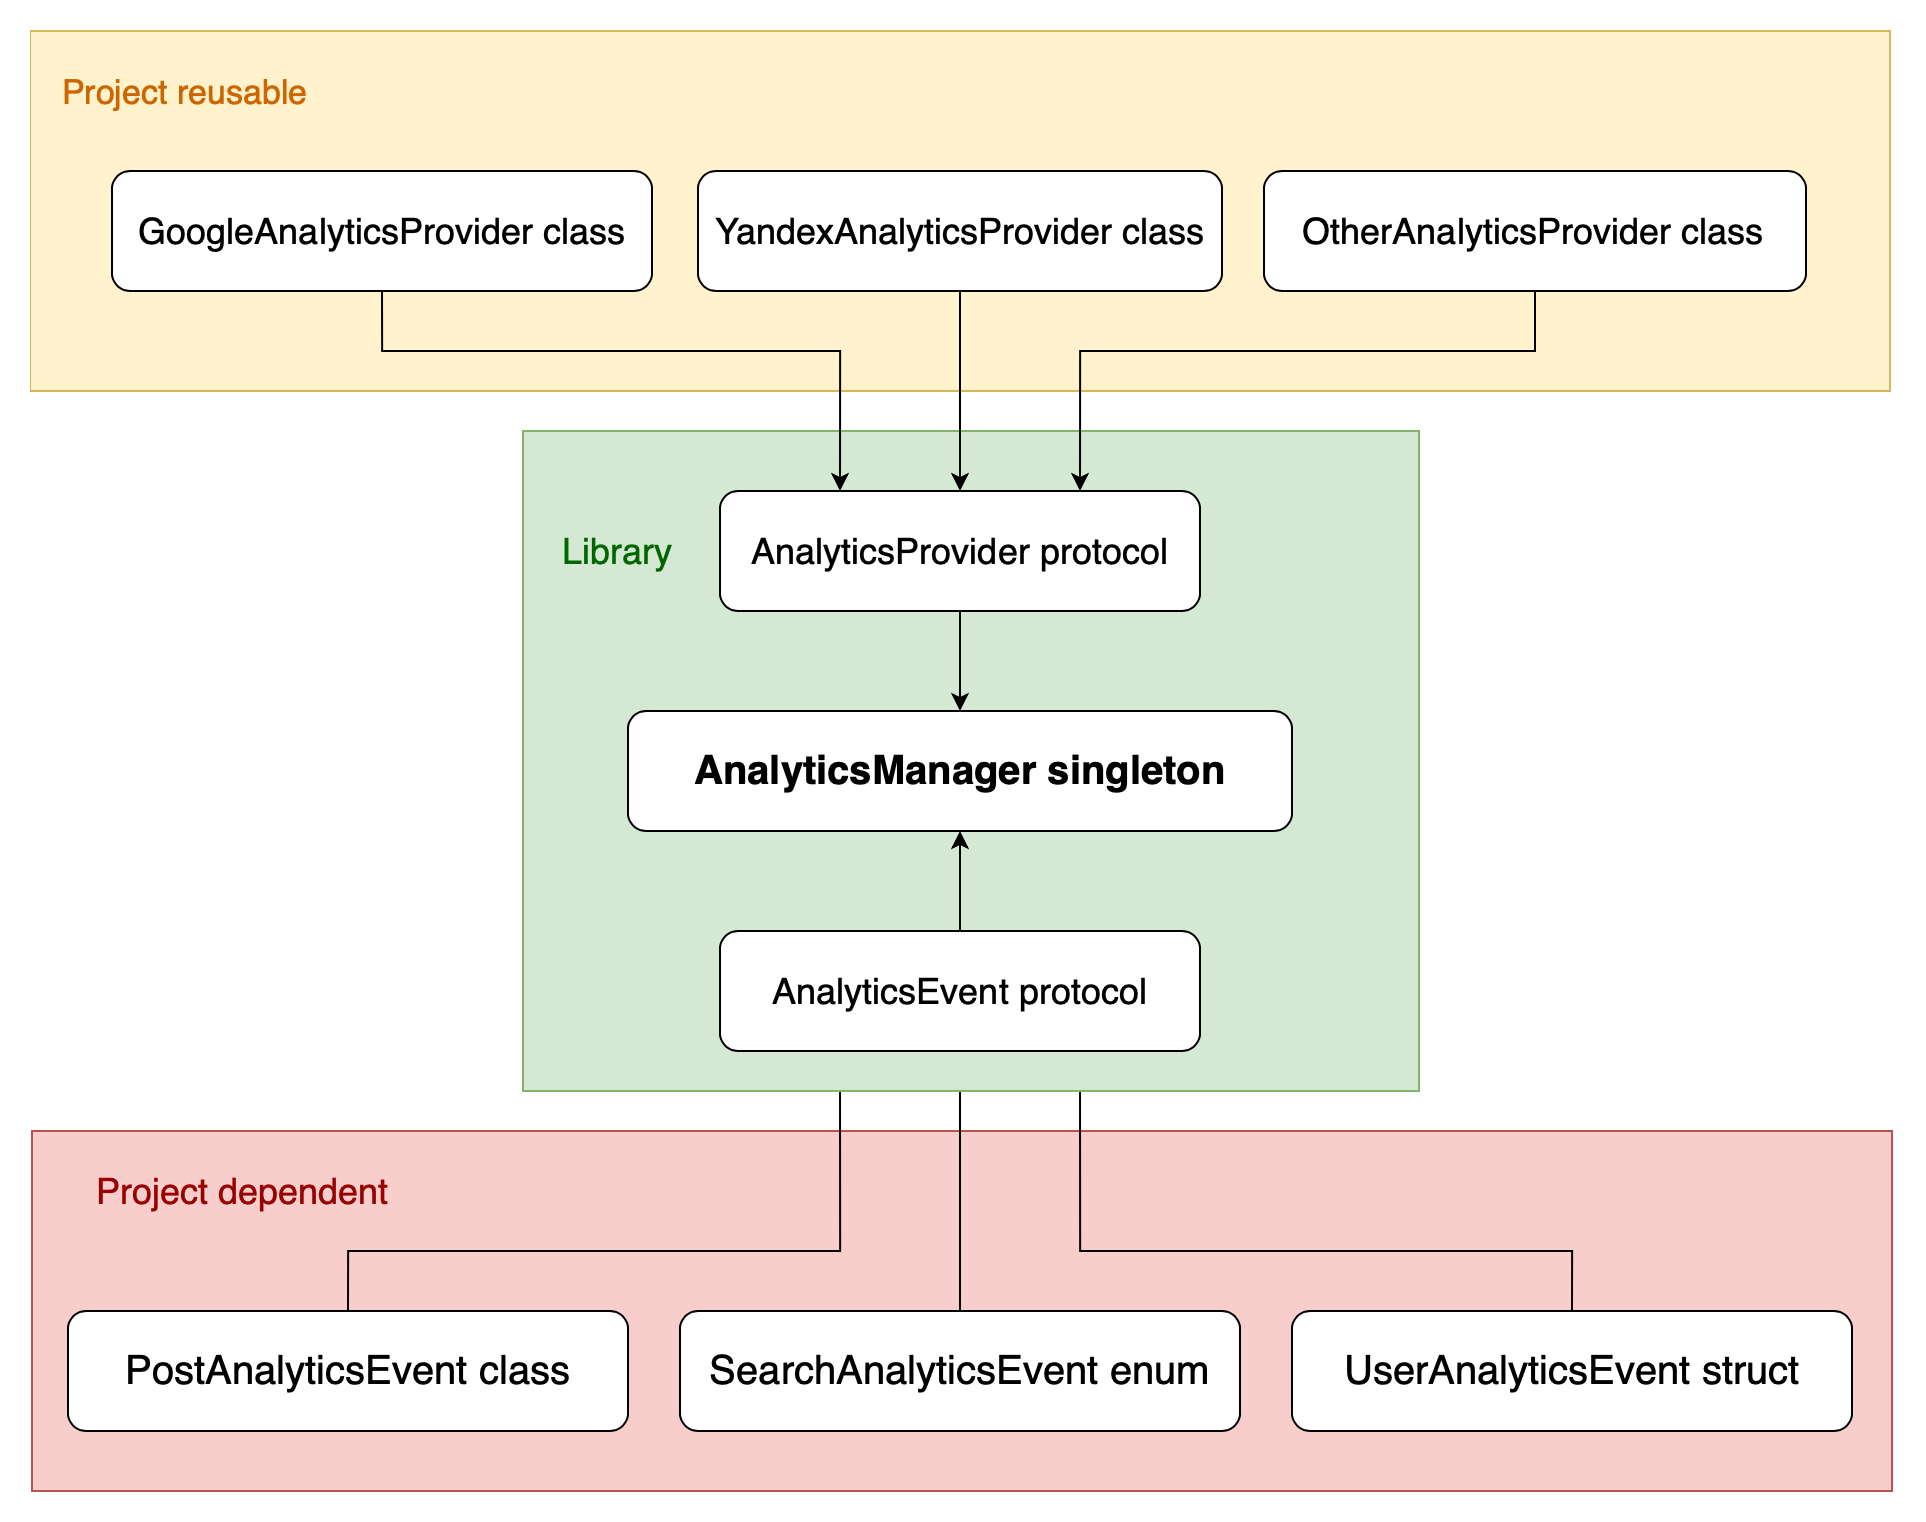
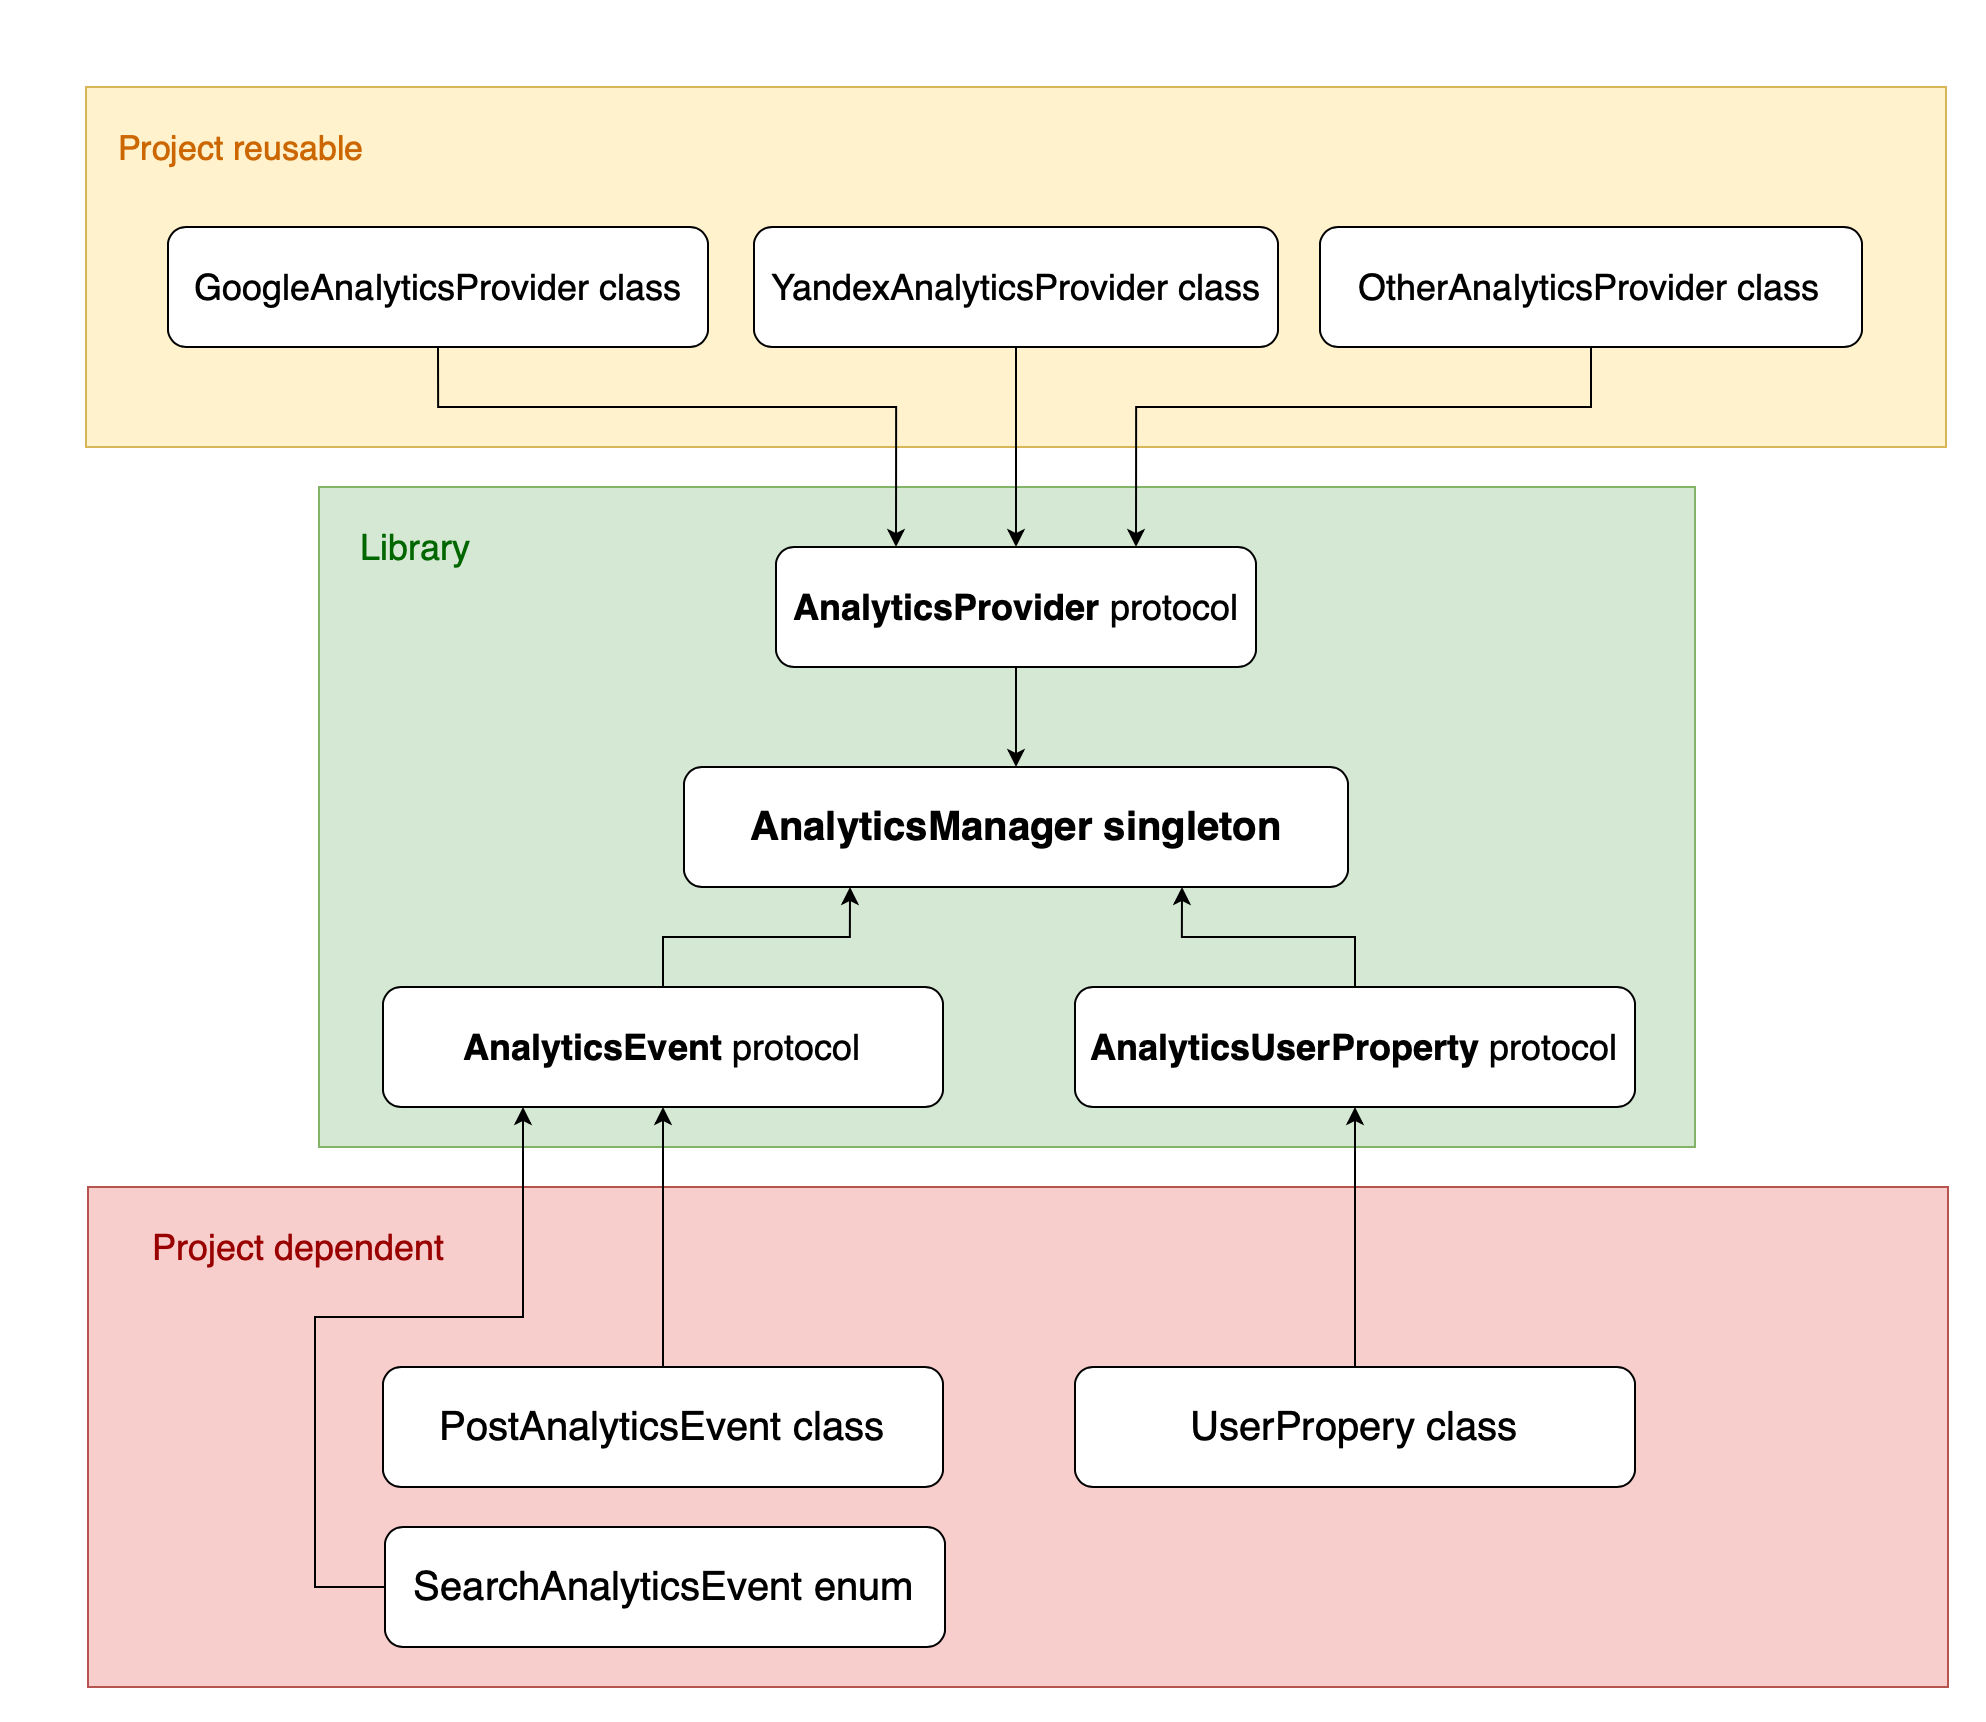
Add user properties, add docs, bump version

diff --git a/Analytics/User Property/AnalyticsUserProperty.swift b/Analytics/User Property/AnalyticsUserProperty.swift
@@ -1,0 +1,34 @@
+//
+//  AnalyticsUserProperty.swift
+//  Analytics
+//
+//  Created by Alexander Filimonov on 11.04.2021.
+//  Copyright © 2021 Александр Филимонов. All rights reserved.
+//
+
+import Foundation
+
+/// Protocol for describing user property
+public protocol AnalyticsUserProperty {
+
+    /// Method for getting name of user property
+    /// - Parameter provider: given provider
+    func getName(for provider: AnalyticsProvider) -> String
+
+    /// Method for getting value of user property
+    /// - Parameter provider: given provider
+    func getValue(for provider: AnalyticsProvider) -> String
+
+    /// Method for understanding if this user propery should be tracked or not
+    /// - Parameter provider: given provider
+    func shouldTrack(in provider: AnalyticsProvider) -> Bool
+
+}
+
+public extension AnalyticsUserProperty {
+
+    func shouldTrack(in provider: AnalyticsProvider) -> Bool {
+        return true
+    }
+
+}

diff --git a/Analytics/AnalyticsManager.swift b/Analytics/AnalyticsManager.swift
@@ -30,6 +30,25 @@ public class AnalyticsManager {
         }
     }
 
+    /// Method for setting user's propreties
+    /// - Parameter userProperty: given user's property
+    public func set(userProperty: AnalyticsUserProperty) {
+        for provider in providers where userProperty.shouldTrack(in: provider) {
+            provider.setUserProperty(
+                name: userProperty.getName(for: provider),
+                value: userProperty.getValue(for: provider)
+            )
+        }
+    }
+
+    /// Method for setting user's identifier
+    /// - Parameter userId: giver user's identifier
+    public func set(userId: String) {
+        for provider in providers {
+            provider.setUserId(userId)
+        }
+    }
+
     /// Method for configuring manager with provider
     /// - Parameter provider: given provider
     public func add(provider: AnalyticsProvider) {

diff --git a/Analytics/User Property/BaseAnalyticsUserProperty.swift b/Analytics/User Property/BaseAnalyticsUserProperty.swift
@@ -1,0 +1,31 @@
+//
+//  BaseAnalyticsUserProperty.swift
+//  Analytics
+//
+//  Created by Alexander Filimonov on 11.04.2021.
+//  Copyright © 2021 Александр Филимонов. All rights reserved.
+//
+
+import Foundation
+
+public protocol BaseAnalyticsUserProperty: AnalyticsUserProperty {
+
+    /// Shared name for all providers
+    var name: String { get }
+
+    /// Shared value for all providers
+    var value: String { get }
+    
+}
+
+public extension BaseAnalyticsUserProperty {
+
+    func getName(for provider: AnalyticsProvider) -> String {
+        return name
+    }
+
+    func getValue(for provider: AnalyticsProvider) -> String {
+        return value
+    }
+
+}

diff --git a/Analytics/AnalyticsProvider.swift b/Analytics/AnalyticsProvider.swift
@@ -15,4 +15,14 @@ public protocol AnalyticsProvider {
     ///   - parameters: parameters of event
     func trackEvent(name: String, parameters: [String: Any])
 
+    /// Method for setting user preoprty's payload
+    /// - Parameters:
+    ///   - name: name of user property
+    ///   - value: value of user property
+    func setUserProperty(name: String, value: String)
+
+    /// Method for setting user's identifier
+    /// - Parameter id: user's identifier
+    func setUserId(_ id: String)
+
 }

diff --git a/README.md b/README.md
@@ -1,12 +1,44 @@
-# Swift Analytics
+# AnyAnalytics - analytics for iOS projects written with swift
+
+![](https://img.shields.io/cocoapods/v/AnyAnalytics?style=plastic)
 
 Library for easily integration analytics into your project.
 
-![Graph of abstraction](Resources/AnalyticsLayer.png)
+This library perfectly works with [SwiftAnalyticsGen](https://github.com/alexfilimon/swift-analytics-gen) - tool for automatically generating swift/kotlin/dart code from Google Spreadsheet file.
 
 ## Installation
 
-`pod 'swift-analytics'`
+`pod 'AnyAnalytics'`
+
+## How to use
+
+1. Create your own realization of `AnalyticsEvent`/`AnalyticsUserProperty`/`AnalyticsProvider` protocols
+2. In `AppDelegate` file add your realizations of `AnalyticsProvider` protocol to `AnalyticsManager.shared`
+
+```swift
+AnalyticsManager.shared.add(providers: [
+    YandexAnalyticsProvider(),
+    GoogleAnalyticsProvider(),
+    ...
+])
+```
+
+3. Call event or user property from code
+
+```swift
+AnalyticsManager.shared.track(event: PurchaseAnalyticsEvent())
+AnalyticsManager.shared.track(userProperty: WishlistAnalyticsUserProperty())
+```
+
+## Idea
+
+![Graph of abstraction](Resources/AnalyticsLayer.png)
+
+The main idea of library is dividing all working process with analytics layer into 3 parts:
+
+1. Project independent layer - your own events and user properties
+2. Project reusable layer - providers, that can be moved accross different projects
+3. Library layer - protocols and `AnalyticsManager`, that holds in separate module
 
 ## How to release new version
 
